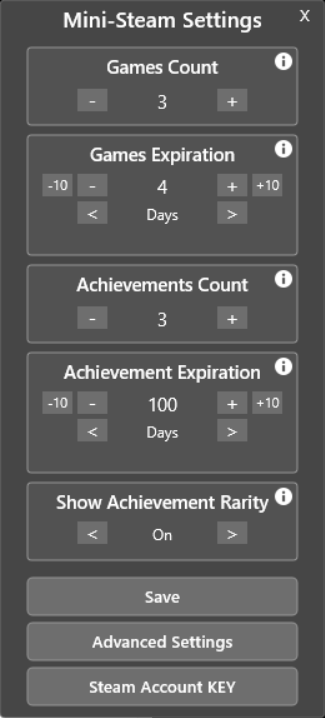
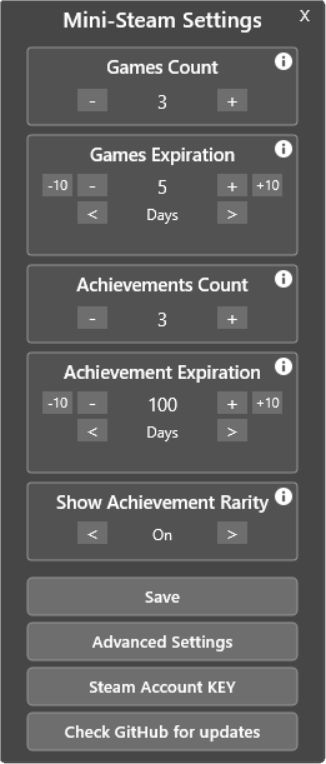
More README updates

diff --git a/README.md b/README.md
@@ -4,7 +4,7 @@ Advanced Mini-Steam Launcher displays recent games, recent achievements, and qui
 
 ## Screenshots
 
-<img src=".git-files/App%20breakdown.png" alt="App breakdown" style="display: block; width: 50%; max-width: 400px; height: auto; margin: 0;">
+<img src=".git-files/App%20breakdown.png" alt="App breakdown" style="display: block; width: 70%; max-width: 600px; height: auto; margin: 0;">
 
 <table>
   <tr>
